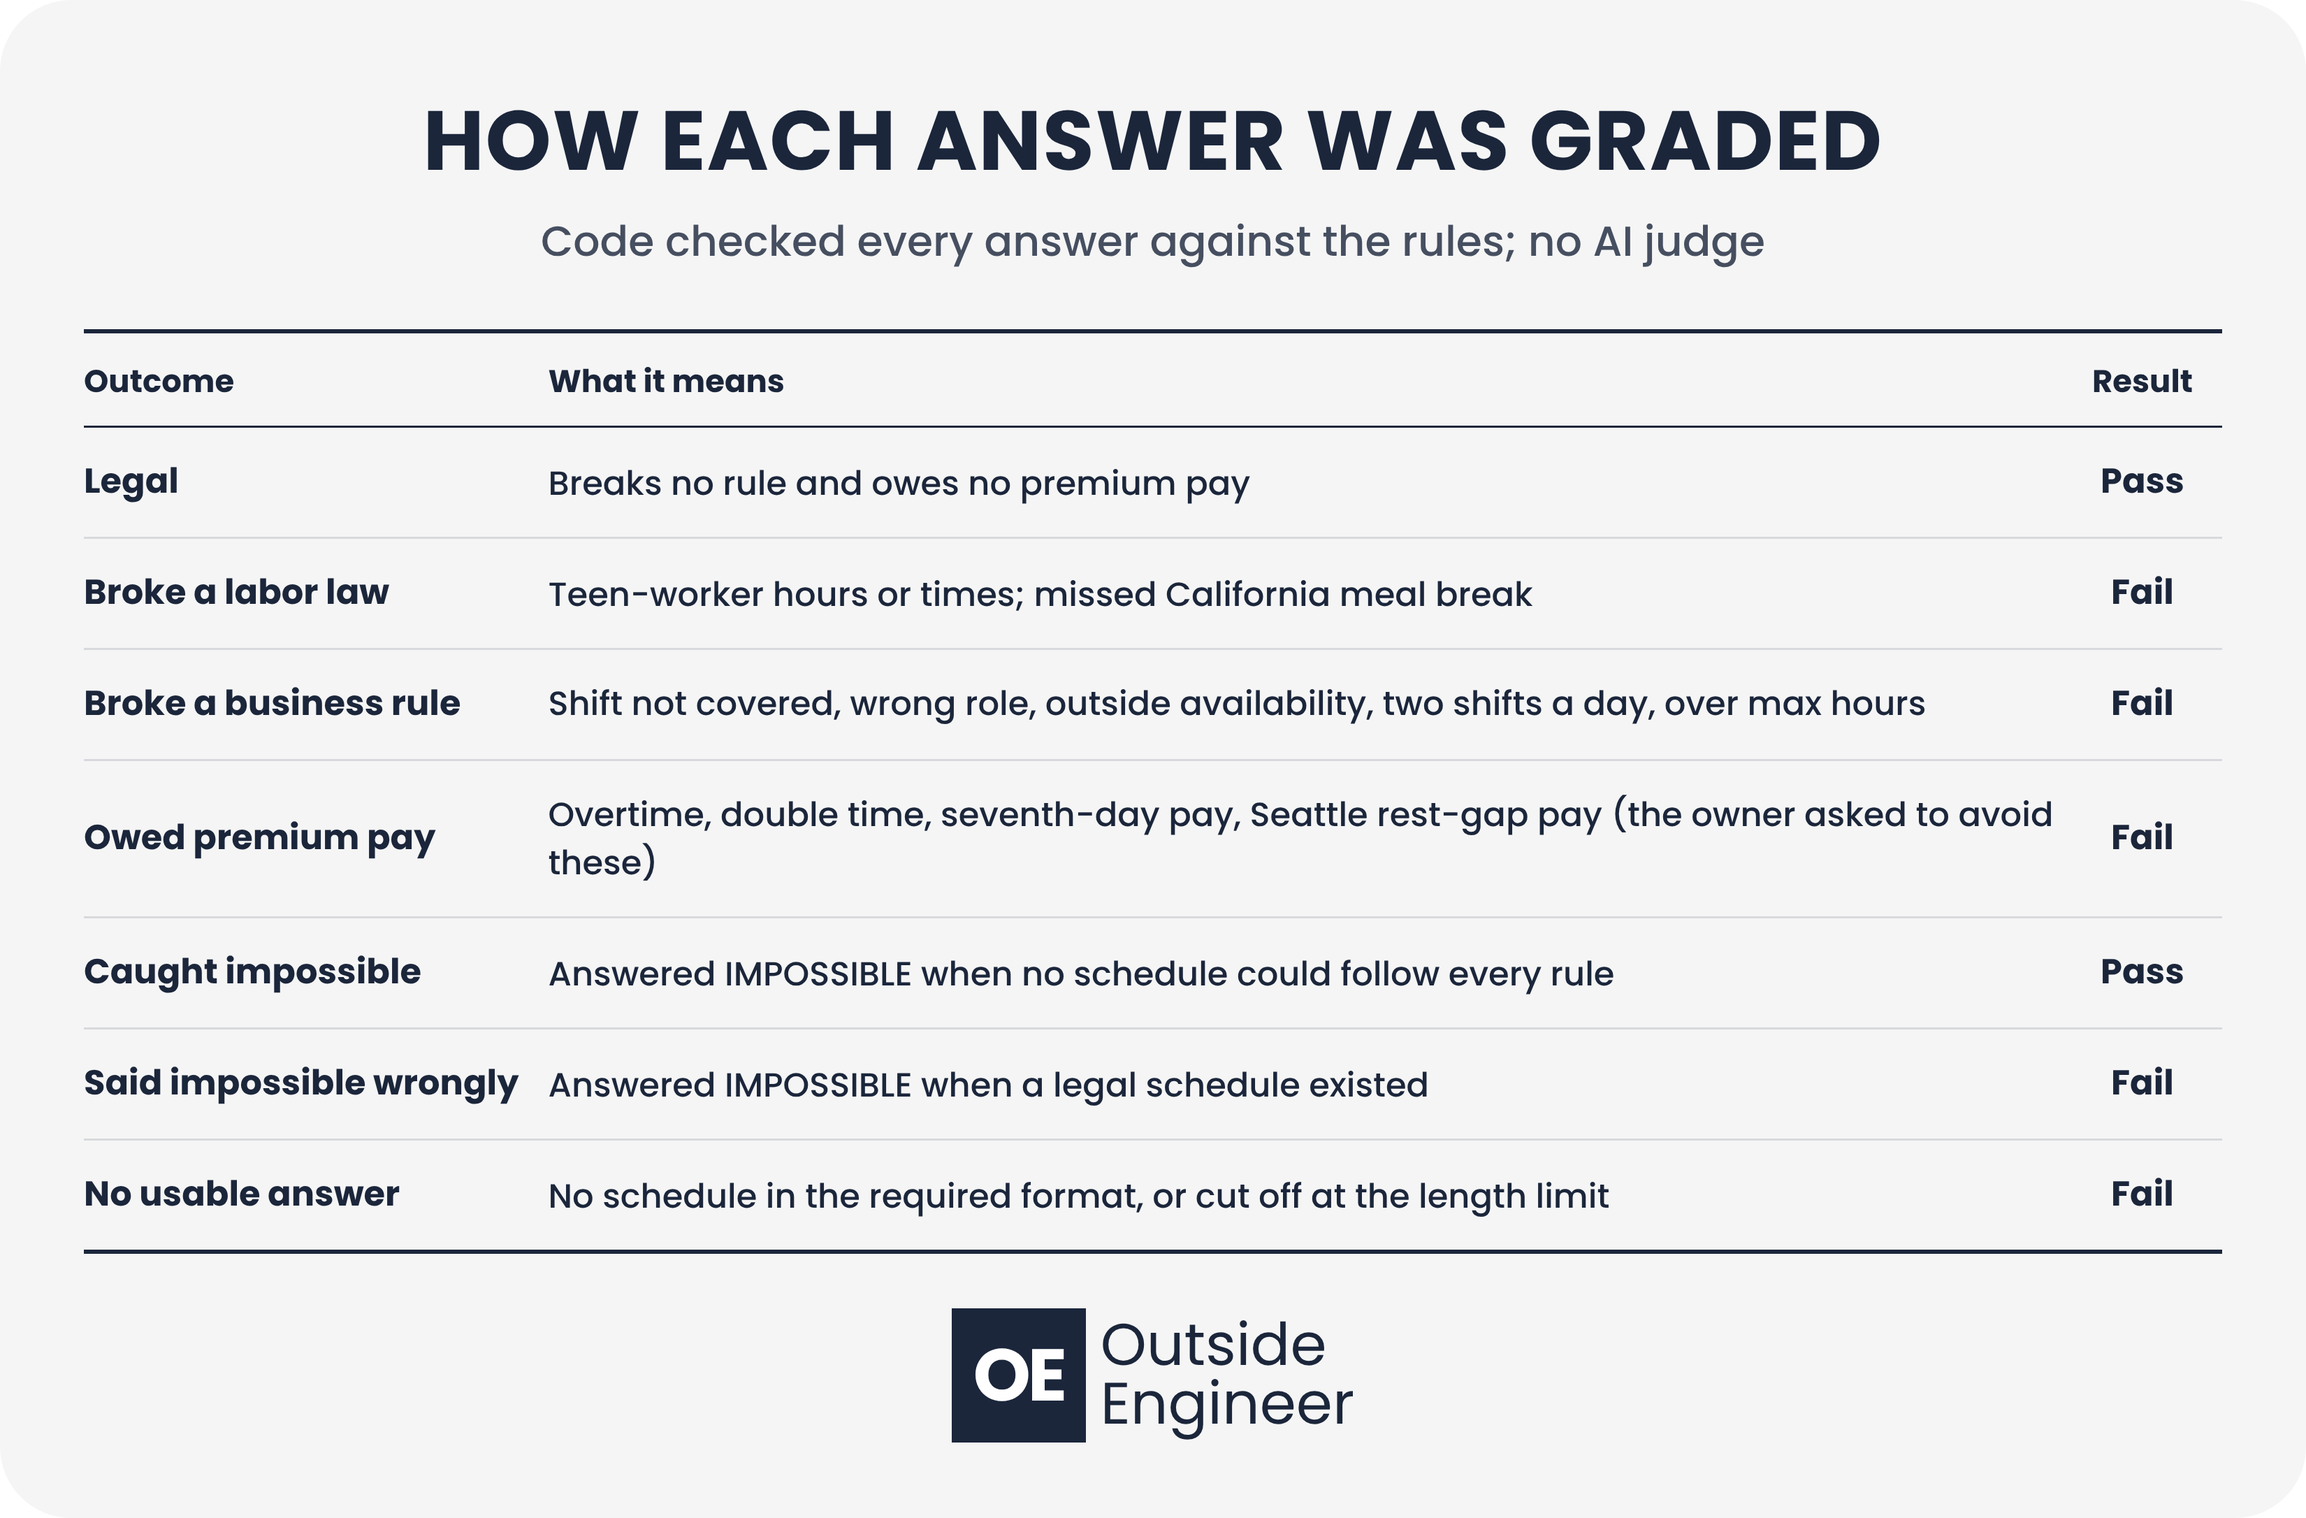
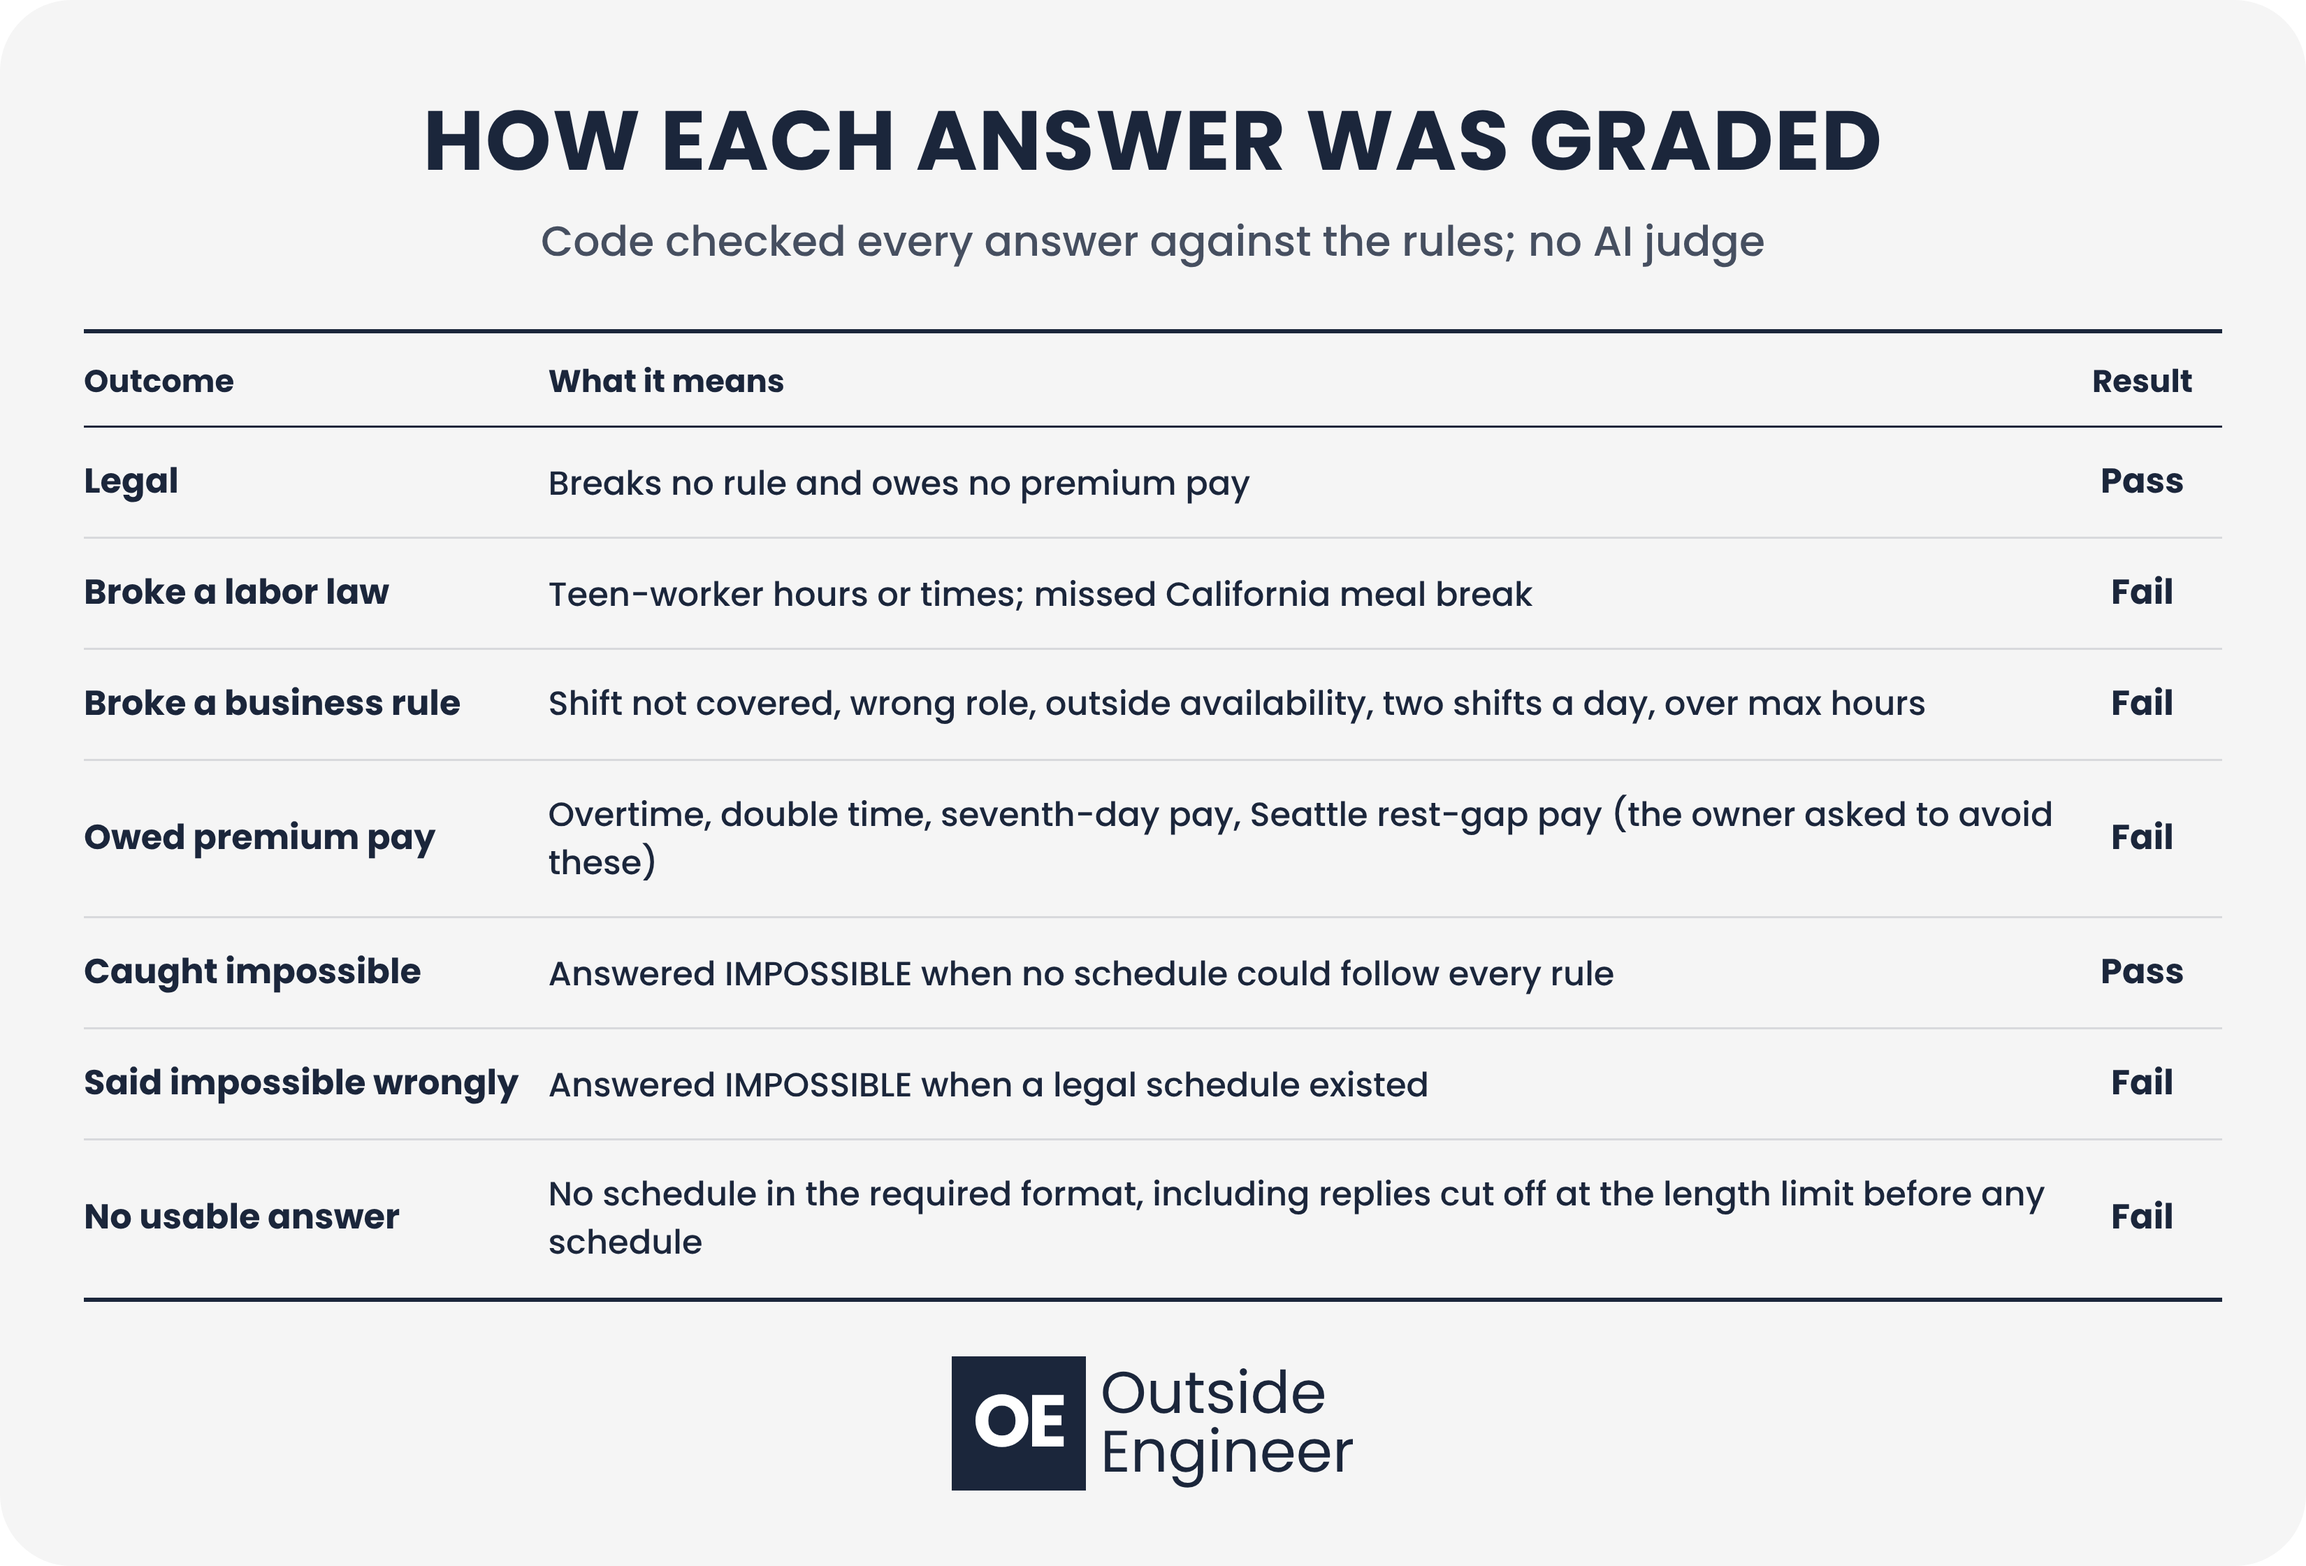
Count lenient re-grade changes over all scenarios; report cut-off and error replies

diff --git a/figures/table-2-grading.html b/figures/table-2-grading.html
@@ -18,4 +18,4 @@ td.m{font-weight:700;font-size:16.5px;white-space:nowrap}
 td.n{font-size:19px;font-weight:700;white-space:nowrap}
 td.q{font-weight:500}
 .c{text-align:center}
-</style></head><body><div class="card"><h1>HOW EACH ANSWER WAS GRADED</h1><div class='sub'>Code checked every answer against the rules; no AI judge</div><table><tr><th class=''>Outcome</th><th class=''>What it means</th><th class='c'>Result</th></tr><tr><td class='m '>Legal</td><td class='q '>Breaks no rule and owes no premium pay</td><td class='m c'>Pass</td></tr><tr><td class='m '>Broke a labor law</td><td class='q '>Teen-worker hours or times; missed California meal break</td><td class='m c'>Fail</td></tr><tr><td class='m '>Broke a business rule</td><td class='q '>Shift not covered, wrong role, outside availability, two shifts a day, over max hours</td><td class='m c'>Fail</td></tr><tr><td class='m '>Owed premium pay</td><td class='q '>Overtime, double time, seventh-day pay, Seattle rest-gap pay (the owner asked to avoid these)</td><td class='m c'>Fail</td></tr><tr><td class='m '>Caught impossible</td><td class='q '>Answered IMPOSSIBLE when no schedule could follow every rule</td><td class='m c'>Pass</td></tr><tr><td class='m '>Said impossible wrongly</td><td class='q '>Answered IMPOSSIBLE when a legal schedule existed</td><td class='m c'>Fail</td></tr><tr><td class='m '>No usable answer</td><td class='q '>No schedule in the required format, or cut off at the length limit</td><td class='m c'>Fail</td></tr></table><div class="logo"><div class="mk">OE</div><div class="tx">Outside<br>Engineer</div></div></div></body></html>
+</style></head><body><div class="card"><h1>HOW EACH ANSWER WAS GRADED</h1><div class='sub'>Code checked every answer against the rules; no AI judge</div><table><tr><th class=''>Outcome</th><th class=''>What it means</th><th class='c'>Result</th></tr><tr><td class='m '>Legal</td><td class='q '>Breaks no rule and owes no premium pay</td><td class='m c'>Pass</td></tr><tr><td class='m '>Broke a labor law</td><td class='q '>Teen-worker hours or times; missed California meal break</td><td class='m c'>Fail</td></tr><tr><td class='m '>Broke a business rule</td><td class='q '>Shift not covered, wrong role, outside availability, two shifts a day, over max hours</td><td class='m c'>Fail</td></tr><tr><td class='m '>Owed premium pay</td><td class='q '>Overtime, double time, seventh-day pay, Seattle rest-gap pay (the owner asked to avoid these)</td><td class='m c'>Fail</td></tr><tr><td class='m '>Caught impossible</td><td class='q '>Answered IMPOSSIBLE when no schedule could follow every rule</td><td class='m c'>Pass</td></tr><tr><td class='m '>Said impossible wrongly</td><td class='q '>Answered IMPOSSIBLE when a legal schedule existed</td><td class='m c'>Fail</td></tr><tr><td class='m '>No usable answer</td><td class='q '>No schedule in the required format, including replies cut off at the length limit before any schedule</td><td class='m c'>Fail</td></tr></table><div class="logo"><div class="mk">OE</div><div class="tx">Outside<br>Engineer</div></div></div></body></html>

diff --git a/analysis.py b/analysis.py
@@ -406,14 +406,19 @@ cat("converged warnings:", length(f@optinfo$conv$lme4$messages), "\\n")
     for mo in order:
         p = le[(le.model == mo) & le.feasible]
         st = m[(m.model == mo) & m.feasible]
+        la, sa = le[le.model == mo].set_index(KEY), m[m.model == mo].set_index(KEY)
         rows.append(dict(model=NAMES[mo], strict_legal_pct=100 * st.legal.mean(),
                          lenient_legal_pct=100 * (p.outcome == "legal").mean(),
                          strict_law_pct=100 * st.law.mean(), lenient_law_pct=100 * (p.outcome == "breaks_law").mean(),
-                         changed=int((p.set_index(KEY).outcome != st.set_index(KEY).outcome.reindex(
-                             p.set_index(KEY).index)).sum())))
+                         changed=int((la.outcome != sa.outcome.reindex(la.index)).sum())))
     sens = pd.DataFrame(rows)
     sens.to_csv(f"{OUT}/sensitivity_lenient.csv", index=False)
     say(sens.round(1).to_string(index=False))
+    say(f"Outcomes changed by lenient grading, all scenarios: {int(sens.changed.sum())} of {len(m)}")
+
+    say("\n== Replies cut off or ended by a provider error (text-only) ==")
+    say(m.groupby(["name", "finish"]).size().unstack(fill_value=0).to_string())
+    say("Outcome of replies cut off at the length limit:", m[m.finish == "length"].outcome.value_counts().to_dict())
 
     say("\n== Spend ==")
     say(f"Text-only main run ${m.cost_usd.sum():.2f}; solver ${s.cost_usd.sum():.2f}; "

diff --git a/figures/make_figures.py b/figures/make_figures.py
@@ -273,7 +273,7 @@ def tab_grading():
             ["Owed premium pay", "Overtime, double time, seventh-day pay, Seattle rest-gap pay (the owner asked to avoid these)", "Fail"],
             ["Caught impossible", "Answered IMPOSSIBLE when no schedule could follow every rule", "Pass"],
             ["Said impossible wrongly", "Answered IMPOSSIBLE when a legal schedule existed", "Fail"],
-            ["No usable answer", "No schedule in the required format, or cut off at the length limit", "Fail"]]
+            ["No usable answer", "No schedule in the required format, including replies cut off at the length limit before any schedule", "Fail"]]
     return page("HOW EACH ANSWER WAS GRADED", "Code checked every answer against the rules; no AI judge",
                 table(["Outcome", "What it means", "Result"], rows, center_from=2, cls={1: "q", 2: "m"}))
 
